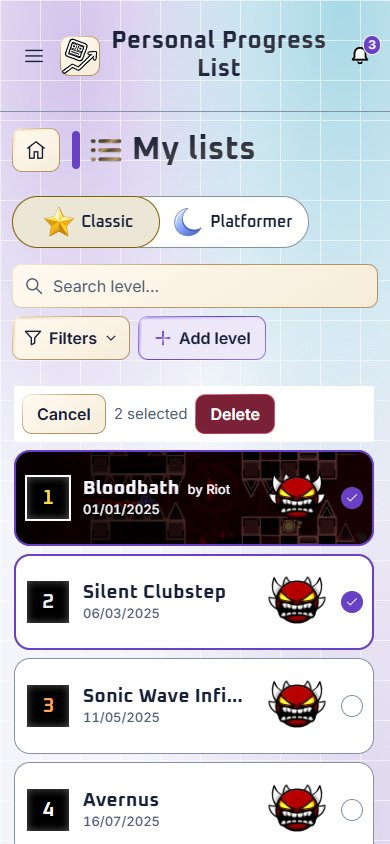
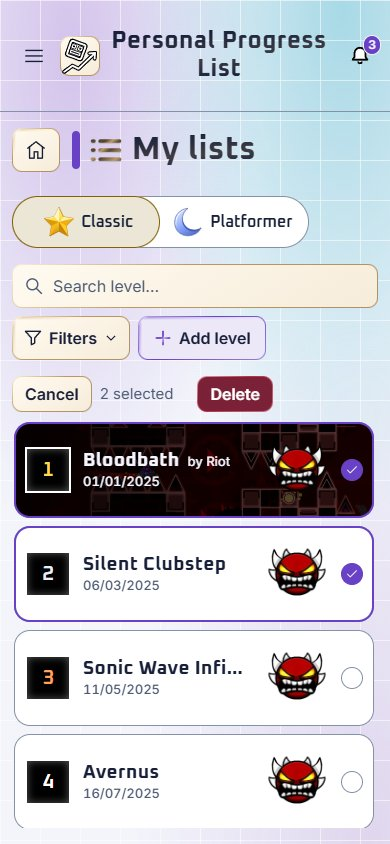
Keep list controls visible and scroll content within each view

Changed region(s): [[0.0308, 0.4313, 0.9846, 1.0], [0.2154, 0.8934, 0.4308, 0.9858]]

diff --git a/js/components/levels.js b/js/components/levels.js
@@ -43,6 +43,8 @@ function pickListLevel(row, id) {
 
 function listSelectionControls() {
     const selection = currentLevelSelection();
+    if (!canEdit() || (!selection && !profile.levels.some(level => level.kind == ui.tab && matchesListFilters(level, ui.q, ui.tagFilter))))
+        return '';
     return `<div class=list-selection><button type=button data-act=list-select aria-pressed=${!!selection}>${t(selection ? 'cancel' : 'selectLevels')}</button>${selection ? `<output>${t('levelSelectionCount').replace('{n}', selection.ids.size)}</output><button type=button class=dg data-act=list-delete${selection.ids.size ? '' : ' disabled'}>${t('del')}</button>` : ''}</div>`;
 }
 
@@ -106,7 +108,7 @@ function list() {
     const firstStepLevels = listLevels.filter(level => isPre(level) && isShown(level));
     const reorderable = canReorder();
     const hasMatches = listLevels.some(isShown);
-    return `${canEdit() && (currentLevelSelection() || hasMatches) ? listSelectionControls() : ''}<div id=lst>${rankedLevels.map((level, index) => isShown(level) ? card(level, index, rankedLevels.length, reorderable) : '').join('')}</div>${unplacedLevels.length ? `<h2 class=grp>${t('unplaced')}</h2>` + unplacedLevels.map(level => card(level)).join('') : ''}${firstStepLevels.length ? `<h2 class=grp>${t('first')}</h2>` + firstStepLevels.map(level => card(level, 'pre')).join('') : ''}${!listLevels.length ? canEdit() ? emptyList({ icon: ICONS.actionAdd, title: t('emptyListTitle'), text: t('emptyListText'), action: 'add' }) : `<p class=by>${t('publicNoLevels')}</p>` : !hasMatches ? `<p class=by>${t('noMatch')}</p>` : ''}`;
+    return `<div id=lst>${rankedLevels.map((level, index) => isShown(level) ? card(level, index, rankedLevels.length, reorderable) : '').join('')}</div>${unplacedLevels.length ? `<h2 class=grp>${t('unplaced')}</h2>` + unplacedLevels.map(level => card(level)).join('') : ''}${firstStepLevels.length ? `<h2 class=grp>${t('first')}</h2>` + firstStepLevels.map(level => card(level, 'pre')).join('') : ''}${!listLevels.length ? canEdit() ? emptyList({ icon: ICONS.actionAdd, title: t('emptyListTitle'), text: t('emptyListText'), action: 'add' }) : `<p class=by>${t('publicNoLevels')}</p>` : !hasMatches ? `<p class=by>${t('noMatch')}</p>` : ''}`;
 }
 
 function youtubeId(url) {
@@ -249,7 +251,7 @@ function setListTagFilter() {
 function lcol() {
     const options = listTagOptions(profile.levels.filter(level => level.kind == ui.tab), ui.tagFilter);
     const modes = ['classic', 'platform'].map(kind => `<button type=button data-act=tab data-v=${kind} aria-pressed=${ui.tab == kind}${ui.tab == kind ? ' disabled' : ''}><img src="assets/modes/${kind}.svg" alt="" width=32 height=32> ${t(kind)}</button>`).join('');
-    return `<div class=mode-switch role=group aria-label="${t('lists')}">${modes}</div><div class=lh><label class=list-search>${ICONS.listSearch}<input id=q type=search placeholder="${t('search')}" aria-label="${t('search')}" value="${escapeHtml(ui.q)}"></label><details class=ms><summary>${ICONS.listFilter}<span class=filter-label>${escapeHtml(listTagSummary())}</span>${ICONS.chevronDown}</summary><div class=msp>${options.length ? options.map(name => `<label><input type=checkbox name=tagf value="${escapeHtml(name)}"${ui.tagFilter.includes(name) ? ' checked' : ''}><i class=tag-dot aria-hidden=true style="${tagStyle(name)}"></i><span class=filter-label>${escapeHtml(name)}</span></label>`).join('') : `<span class=by>${t('noListTags')}</span>`}</div></details><button type=button class=list-clear data-act=ct aria-label="${t('clearTags')}" title="${t('clearTags')}"${ui.tagFilter.length ? '' : ' hidden'}>${ICONS.listClear}</button>${canEdit() ? `<button type=button class=list-add data-act=add>${ICONS.actionAdd} ${t('palAdd')}</button>` : ''}</div><div id=lw>${list()}</div>`;
+    return `<div class=mode-switch role=group aria-label="${t('lists')}">${modes}</div><div class=lh><label class=list-search>${ICONS.listSearch}<input id=q type=search placeholder="${t('search')}" aria-label="${t('search')}" value="${escapeHtml(ui.q)}"></label><details class=ms><summary>${ICONS.listFilter}<span class=filter-label>${escapeHtml(listTagSummary())}</span>${ICONS.chevronDown}</summary><div class=msp>${options.length ? options.map(name => `<label><input type=checkbox name=tagf value="${escapeHtml(name)}"${ui.tagFilter.includes(name) ? ' checked' : ''}><i class=tag-dot aria-hidden=true style="${tagStyle(name)}"></i><span class=filter-label>${escapeHtml(name)}</span></label>`).join('') : `<span class=by>${t('noListTags')}</span>`}</div></details><button type=button class=list-clear data-act=ct aria-label="${t('clearTags')}" title="${t('clearTags')}"${ui.tagFilter.length ? '' : ' hidden'}>${ICONS.listClear}</button>${canEdit() ? `<button type=button class=list-add data-act=add>${ICONS.actionAdd} ${t('palAdd')}</button>` : ''}</div><div id=list-actions>${listSelectionControls()}</div><div id=lw>${list()}</div>`;
 }
 
 /** Right column with level details, an editing form or an empty prompt. */
@@ -299,6 +301,9 @@ const scrollSel = () => qs('.lv.sel')?.scrollIntoView({ block: 'center', behavio
 /** Redraws the list while preserving scroll and search text. */
 function renderList() {
     qs('#lw').innerHTML = list();
+    const actions = qs('#list-actions');
+    if (actions)
+        actions.innerHTML = listSelectionControls();
     initSort();
 }
 
@@ -312,14 +317,14 @@ function renderPanel() {
 /** Selects a level without rebuilding the list. */
 function selectLevel(id) {
     if (innerWidth <= 900)
-        ui.listReturnY = window.scrollY;
+        ui.listReturnY = qs('#lw').scrollTop;
     ui.sel = id;
     ui.edit = 0;
     document.querySelectorAll('.lv.sel').forEach(c => c.classList.remove('sel'));
     qs(`.lv[data-id="${CSS.escape(id)}"]`)?.classList.add('sel');
     renderPanel();
+    qs('.rcol').scrollTop = 0;
     if (innerWidth <= 900) {
-        scrollTo({ top: 0 });
         qs('.rcol [data-act=lvclose]')?.focus({ preventScroll: true });
     }
 }

diff --git a/css/styles.css b/css/styles.css
@@ -4663,15 +4663,10 @@ input[type=checkbox]:checked::after {
   align-items: center;
   flex-wrap: wrap;
   gap: var(--space-8);
-  margin-block: var(--space-8);
+  margin-bottom: var(--space-8);
 }
-.list-selection:has(output) {
-  position: sticky;
-  top: 0;
-  z-index: 2;
-  padding: var(--space-8);
-  background: var(--color-surface);
-}
+.list-selection button { min-height: 36px; padding: 4px 12px; }
+.list-selection [data-act=list-delete] { margin-inline-start: var(--space-16); }
 .list-surface .lv[data-act=list-pick] {
   grid-template-columns: 46px minmax(0, 1fr) auto auto;
 }
@@ -4700,3 +4695,46 @@ input[type=checkbox]:checked::after {
   background: var(--color-accent);
 }
 .lv[aria-pressed=true] .selection-mark > svg { visibility: visible; }
+
+/* Keep navigation and list controls in view while their content scrolls. */
+.shell-content:has(.list-surface, .legacy-surface) {
+  height: 100dvh;
+  display: grid;
+  grid-template-rows: auto minmax(0, 1fr);
+}
+.shell-main:has(> .list-surface, > .legacy-surface) {
+  min-height: 0;
+  display: grid;
+  grid-template-rows: auto minmax(0, 1fr);
+}
+.shell-main > :is(.list-surface, .legacy-surface), .list-surface .split > * { min-height: 0; }
+.shell-main > .legacy-surface, .list-surface :is(#lw, .rcol), .legacy-surface > .wl {
+  overflow: auto;
+  overscroll-behavior: contain;
+}
+.legacy-surface:has(> .wh + .wl) {
+  display: grid;
+  grid-template-rows: auto minmax(0, 1fr);
+}
+.list-surface .split {
+  height: 100%;
+  grid-template-rows: minmax(0, 1fr);
+  align-items: stretch;
+}
+.list-surface .lcol {
+  display: grid;
+  grid-template-rows: auto auto auto minmax(0, 1fr);
+}
+.list-surface .mode-switch { justify-self: start; }
+.list-surface :is(#lw, .rcol) { position: static; max-height: none; }
+@media (max-width: 900px) {
+  .list-surface .split:has(.rcol.has) .lcol { display: none; }
+}
+@media (max-height: 640px) {
+  .shell-content:has(.list-surface, .legacy-surface) .shell-header { min-height: 48px; padding-block: 3px; }
+  .shell-main:has(.list-surface, .legacy-surface) { padding-block: var(--space-4); }
+  .shell-main .page-title, .list-surface :is(.mode-switch, .lh) { margin-bottom: var(--space-4); }
+}
+@media (min-width: 600px) and (max-height: 640px) {
+  .lh .list-search { flex-basis: 160px; }
+}

diff --git a/js/render.js b/js/render.js
@@ -16,6 +16,10 @@ function controlSelector(el) {
 function render() {
     const focused = controlSelector(document.activeElement);
     const listScrollTop = ui.renderedTab == ui.tab ? qs('#lw')?.scrollTop : 0, isLevelList = isListTab();
+    const contentSelector = ui.tab == 'wish' && ui.wl ? '.legacy-surface > .wl' : '.legacy-surface';
+    const contentScroll = ui.renderedTab == ui.tab && (ui.tab == 'stats' || (ui.tab == 'wish' && ui.renderedWishlist == ui.wl))
+        ? qs(contentSelector)?.scrollTop : 0;
+    ui.renderedWishlist = ui.wl;
     const changedMode = isLevelList && ['classic', 'platform'].includes(ui.renderedTab) && ui.renderedTab != ui.tab;
     ui.renderedTab = ui.tab;
     const screen = !canEdit() && !viewing.identity ? publicViewScreen() : ui.tab == 'wish' ? currentWishlist() ? wishView() : wishlistsIndex() : isLevelList ? `<div class=split><div class=lcol>${lcol()}</div><div class="rcol ${ui.sel ? 'has' : ''}">${panel()}</div></div>` : ui.tab == 'stats' ? stats() : home();
@@ -29,6 +33,8 @@ function render() {
     document.documentElement.lang = ui.lang;
     if (listScrollTop && qs('#lw'))
         qs('#lw').scrollTop = listScrollTop;
+    if (contentScroll && qs(contentSelector))
+        qs(contentSelector).scrollTop = contentScroll;
     initSort();
     initWishlistSort();
     renderTagSuggestions();

diff --git a/js/events.js b/js/events.js
@@ -169,7 +169,7 @@ const ACTIONS = {
         render();
         if (returnId && innerWidth <= 900) {
             qs(`.lv[data-id="${CSS.escape(returnId)}"]`)?.focus({ preventScroll: true });
-            scrollTo({ top: ui.listReturnY || 0 });
+            qs('#lw').scrollTop = ui.listReturnY || 0;
         }
     },
     tgadd(a) {
